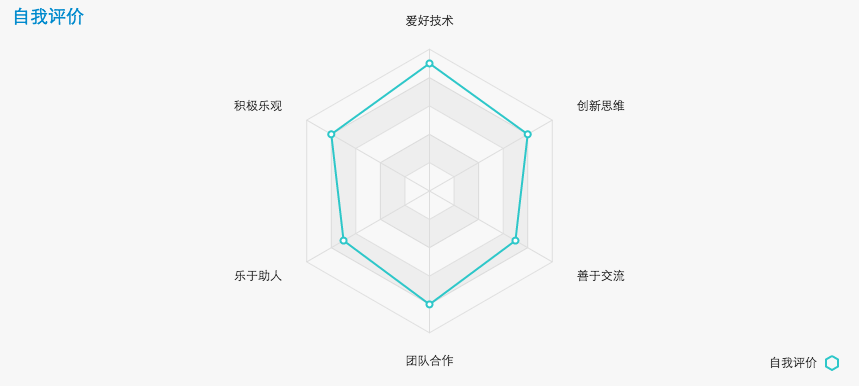
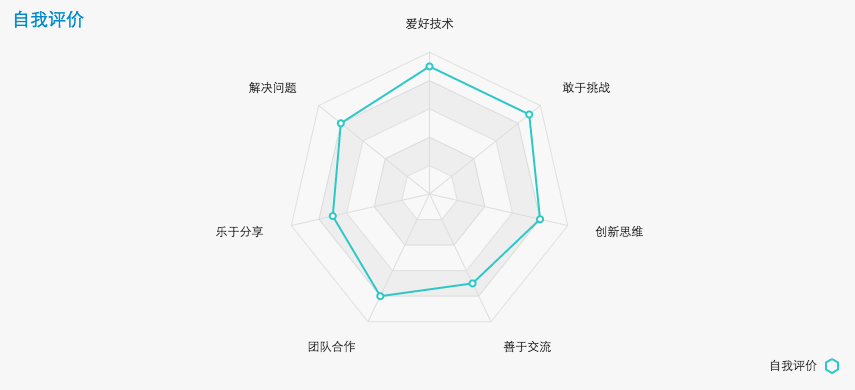
revise resume

diff --git a/_posts/web/2014-12-08-resume-draft.md b/_posts/web/2014-12-08-resume-draft.md
@@ -164,11 +164,12 @@ option = {
        {
            indicator : [
                { text: '爱好技术', max: 10},
-               { text: '积极乐观', max: 10},
-               { text: '乐于助人', max: 10},
+               { text: '解决问题', max: 10},
+               { text: '乐于分享', max: 10},
                { text: '团队合作', max: 10},
                { text: '善于交流', max: 10},
-               { text: '创新思维', max: 10}
+               { text: '创新思维', max: 10},
+               { text: '敢于挑战', max: 10}
             ]
         }
     ],
@@ -179,7 +180,7 @@ option = {
             type: 'radar',
             data : [
                 {
-                    value : [9, 8, 7, 8, 7, 8],
+                    value : [9, 8, 7, 8, 7, 8, 9],
                     name : '自我评价'
                 }
             ]

diff --git a/_posts/web/2014-11-08-resume.md b/_posts/web/2014-11-08-resume.md
@@ -42,7 +42,7 @@ description: My resume
 
 - 操作系统：Linux/Mac/Windows
 - 编程语言：Python/Erlang/Scala/C/C++/JS/HTML/CSS
-- 框架和库：Flask/Restful/OTP/Pymongo/Flask  
+- 框架和库：Flask/Restful/OTP/Pymongo  
 - 数据系统：Mongo/MySQL/Redis
 - 项目工具：Nginx/Visio/Gliffy
 - 技术研究：Spark/Machine Learning/Recommend System 
